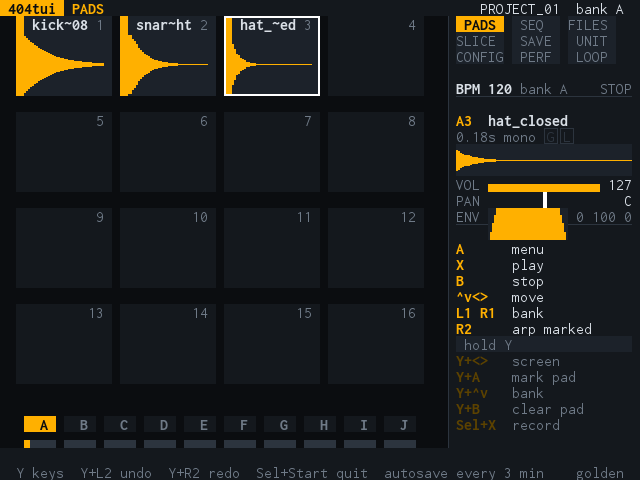
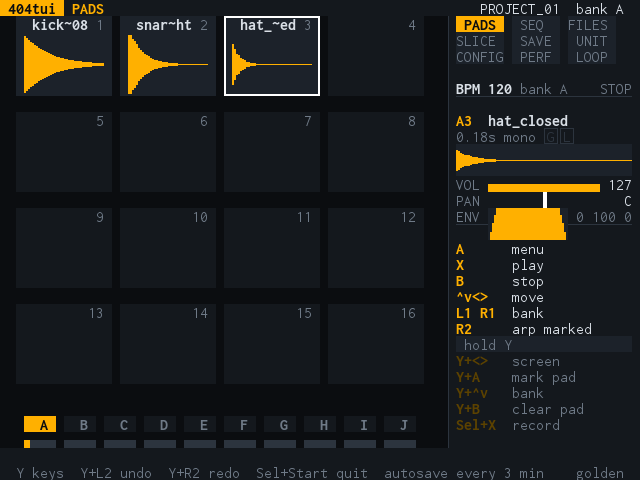
handheld: no amber strip on the pad tiles (golden pads pictures updated on purpose)

Changed region(s): [[0.0, 0.0312, 0.0625, 0.1875], [0.1875, 0.0312, 0.2188, 0.2188], [0.3438, 0.0312, 0.375, 0.1875]]

diff --git a/core/view.go b/core/view.go
@@ -239,8 +239,6 @@ func (a *App) drawPads(g Gfx) {
 				case 2:
 					strips = append(strips, [4]int{x, y, th, 2})
 				}
-			} else {
-				g.Fill(x, y, 1, th, cAmber)
 			}
 			g.Text(x+2, y, short(p.Name, pw-6), cText, true)
 			if Terminal { // a computer's terminal shows the length and the switches (the wave is in the panel)
